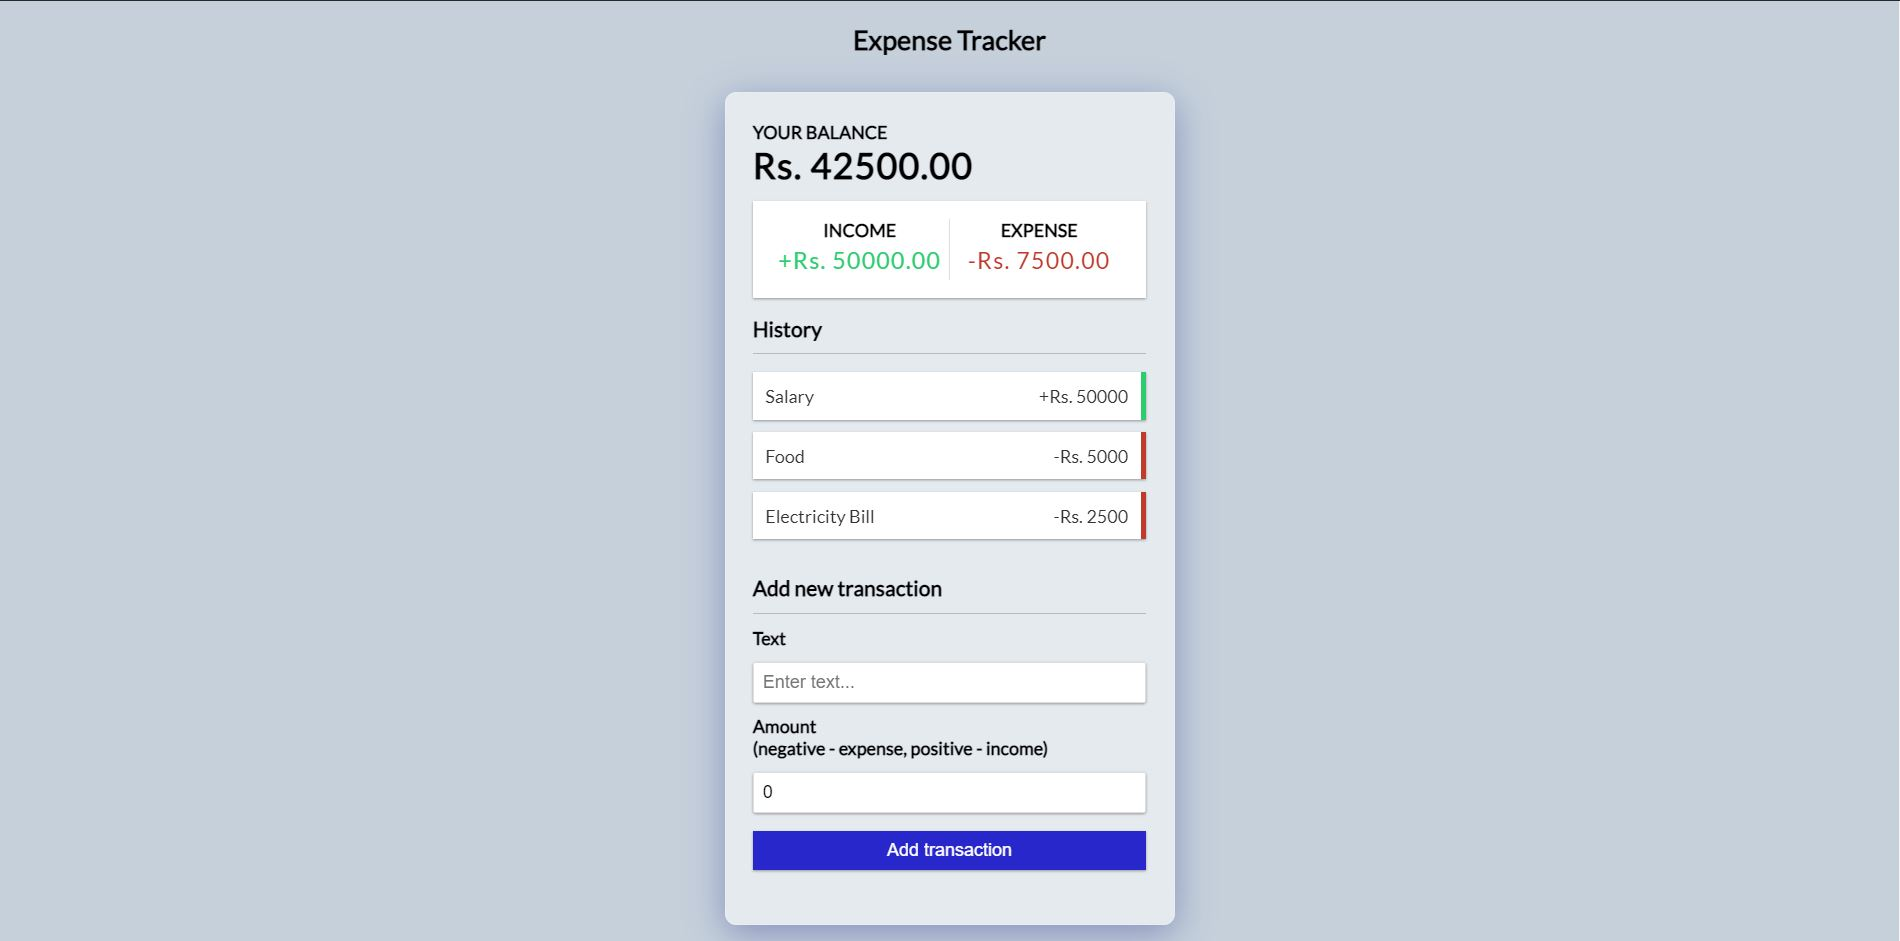
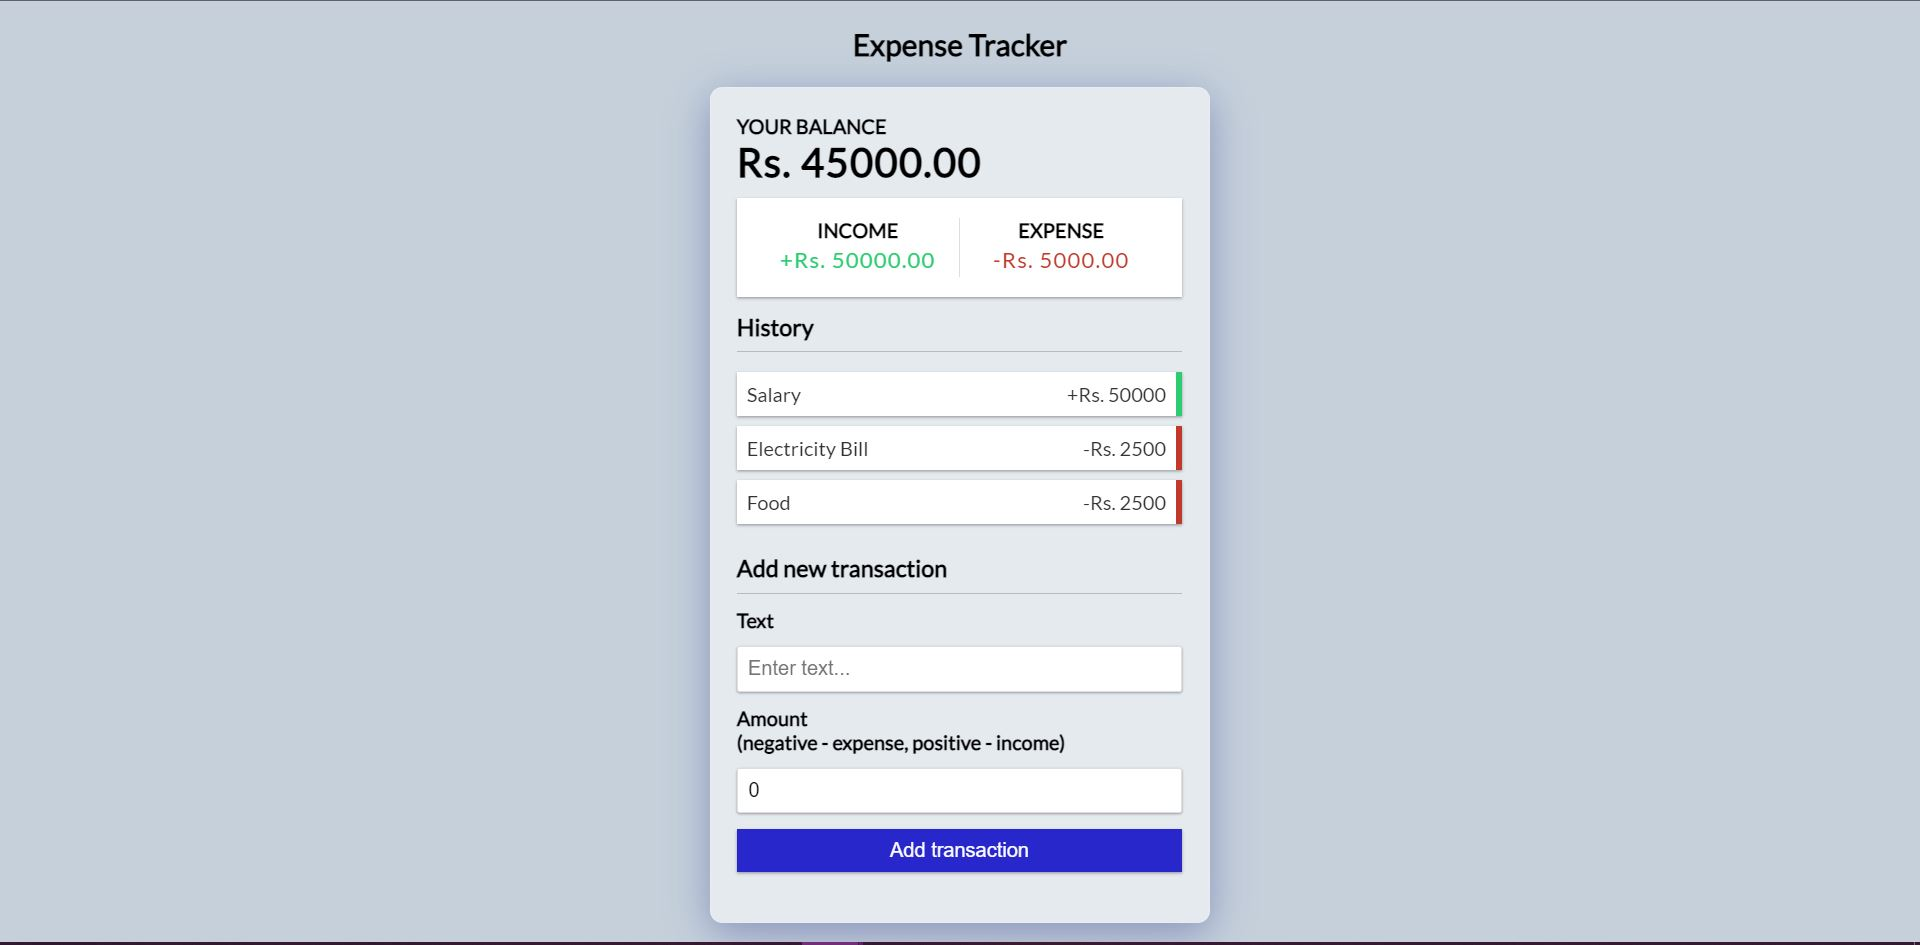
deploying using github

Changed region(s): [[0.0, 0.0925, 1.0, 1.0], [0.4347, 0.0308, 0.5589, 0.0616], [0.9937, 0.0, 1.0, 0.0308]]

diff --git a/src/App.css b/src/App.css
@@ -12,17 +12,18 @@ body {
   background-color: #c5d0db;
   display: flex;
   flex-direction: column;
+  min-height: 100vh;
   align-items: center;
   justify-content: center;
-  min-height: 100vh;
   margin: 0;
   font-family: "Lato", sans-serif;
 }
 
 .container {
-  margin: 2rem auto;
-  width: 400px;
-  padding: 1.5rem;
+  margin: 1rem auto;
+  width: fit-content;
+  min-width: 25rem;
+  padding: 1.3rem;
   background: rgba(255, 255, 255, 0.55);
   box-shadow: 0 8px 32px 0 rgba(31, 38, 135, 0.37);
   backdrop-filter: blur(11px);
@@ -43,8 +44,8 @@ h2 {
 
 h3 {
   border-bottom: 1px solid #bbb;
-  padding-bottom: 0.7rem;
-  margin: 1rem 0 0.5px;
+  padding-bottom: 0.5rem;
+  margin: 0.8rem 0 0.5px;
 }
 
 h4 {
@@ -59,7 +60,7 @@ h4 {
   color: black;
   display: flex;
   justify-content: space-between;
-  margin: 0.8rem 0;
+  margin: 0.6rem 0;
 }
 
 .inc-exp-container > div {
@@ -72,9 +73,9 @@ h4 {
 }
 
 .money {
-  font-size: 1.3rem;
+  font-size: 1.1rem;
   letter-spacing: 1px;
-  margin: 0.3rem 0;
+  margin: 0.2rem 0;
 }
 
 .money.plus {
@@ -110,7 +111,7 @@ input[type="number"] {
   border: 0;
   display: block;
   font-size: 1rem;
-  margin: 1rem 0 1.5rem;
+  margin: 0.8rem 0 1.2rem;
   padding: 0.5rem;
   width: 100%;
 }
@@ -123,7 +124,7 @@ input[type="number"] {
 .list {
   list-style-type: none;
   padding: 0;
-  margin-bottom: 2rem;
+  margin-bottom: 1.5rem;
 }
 
 .list li {
@@ -133,8 +134,8 @@ input[type="number"] {
   display: flex;
   justify-content: space-between;
   position: relative;
-  padding: 0.7rem;
-  margin: 0.7rem 0;
+  padding: 0.5rem;
+  margin: 0.5rem 0;
 }
 
 .list li.plus {
@@ -150,9 +151,9 @@ input[type="number"] {
   background-color: #e74c3c;
   border: 0;
   color: #fff;
-  font-size: 1.2rem;
-  line-height: 1.2rem;
-  padding: 2px 5px;
+  font-size: 1rem;
+  line-height: 1rem;
+  padding: 2px 4px;
   position: absolute;
   top: 50%;
   left: 0;
@@ -164,3 +165,28 @@ input[type="number"] {
 .list li:hover .delete-btn {
   opacity: 1;
 }
+
+@media only screen and (max-width: 1000px) {
+  html {
+    font-size: 90%;
+  }
+}
+
+@media only screen and (max-width: 400px) {
+  html {
+    font-size: 80%;
+  }
+}
+
+@media only screen and (min-height: 1024px) {
+  html {
+    font-size: 110%;
+  }
+}
+
+
+
+
+
+
+

diff --git a/public/index.html b/public/index.html
@@ -24,7 +24,7 @@
       work correctly both with client-side routing and a non-root public URL.
       Learn how to configure a non-root public URL by running `npm run build`.
     -->
-    <title>React App</title>
+    <title>Expense Tracker</title>
   </head>
   <body>
     <noscript>You need to enable JavaScript to run this app.</noscript>

diff --git a/README.md b/README.md
@@ -5,4 +5,4 @@
 ## About Expense Tracker app
 
 - The app provides basic features for tracking your expenses such as adding your income, expenditures and deleting tracked items when you no longer need it.
-- Uses modern react with functional components, hooks and Context API. Created for getting a better understanding of Context API, localStorage and hooks.
+- Uses modern react with functional components, hooks and Context API. Uses useReducer in combination with Context API. Created for getting a better understanding of Context API, localStorage and hooks.
